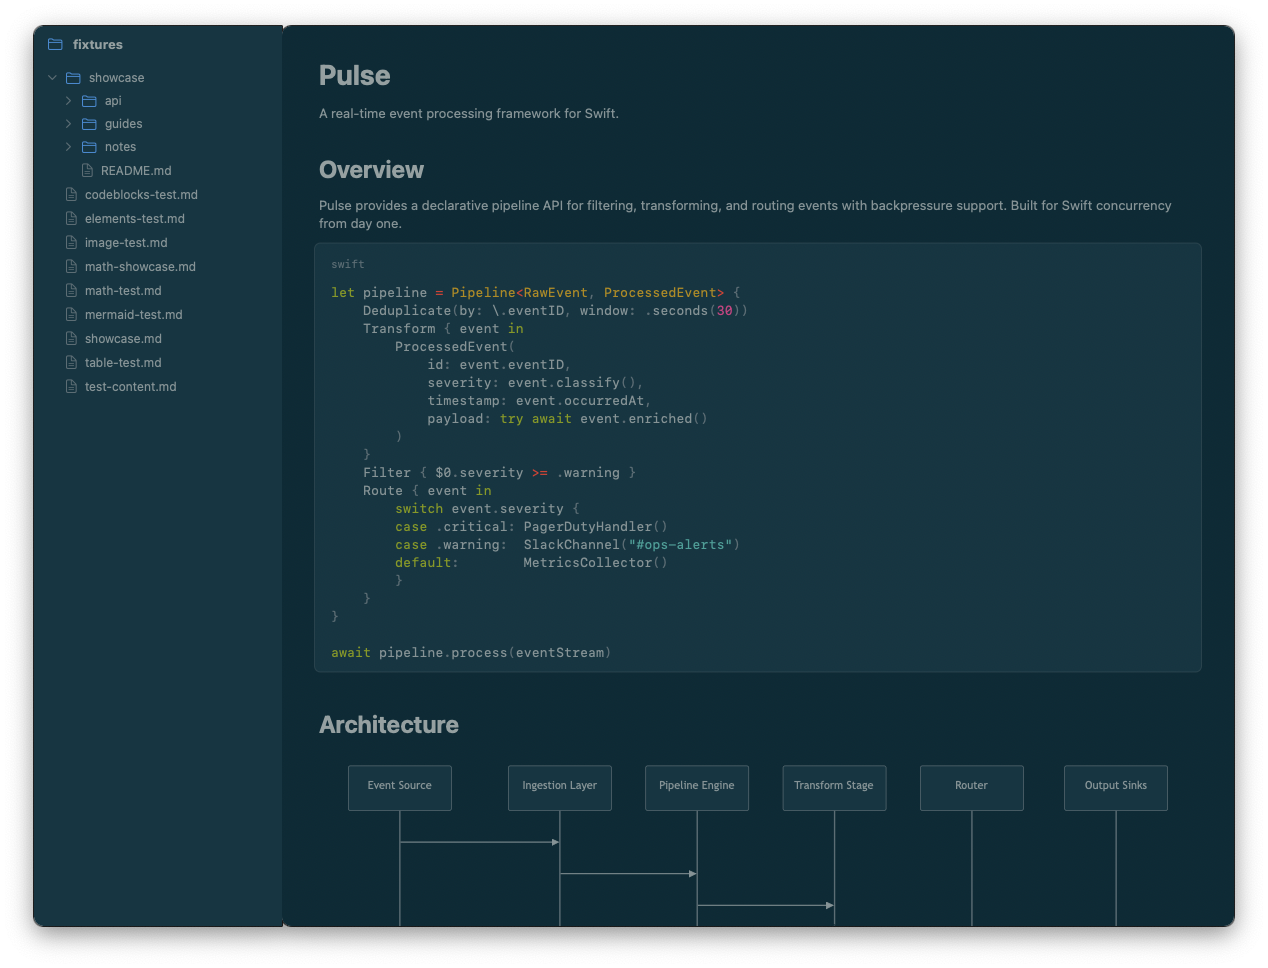
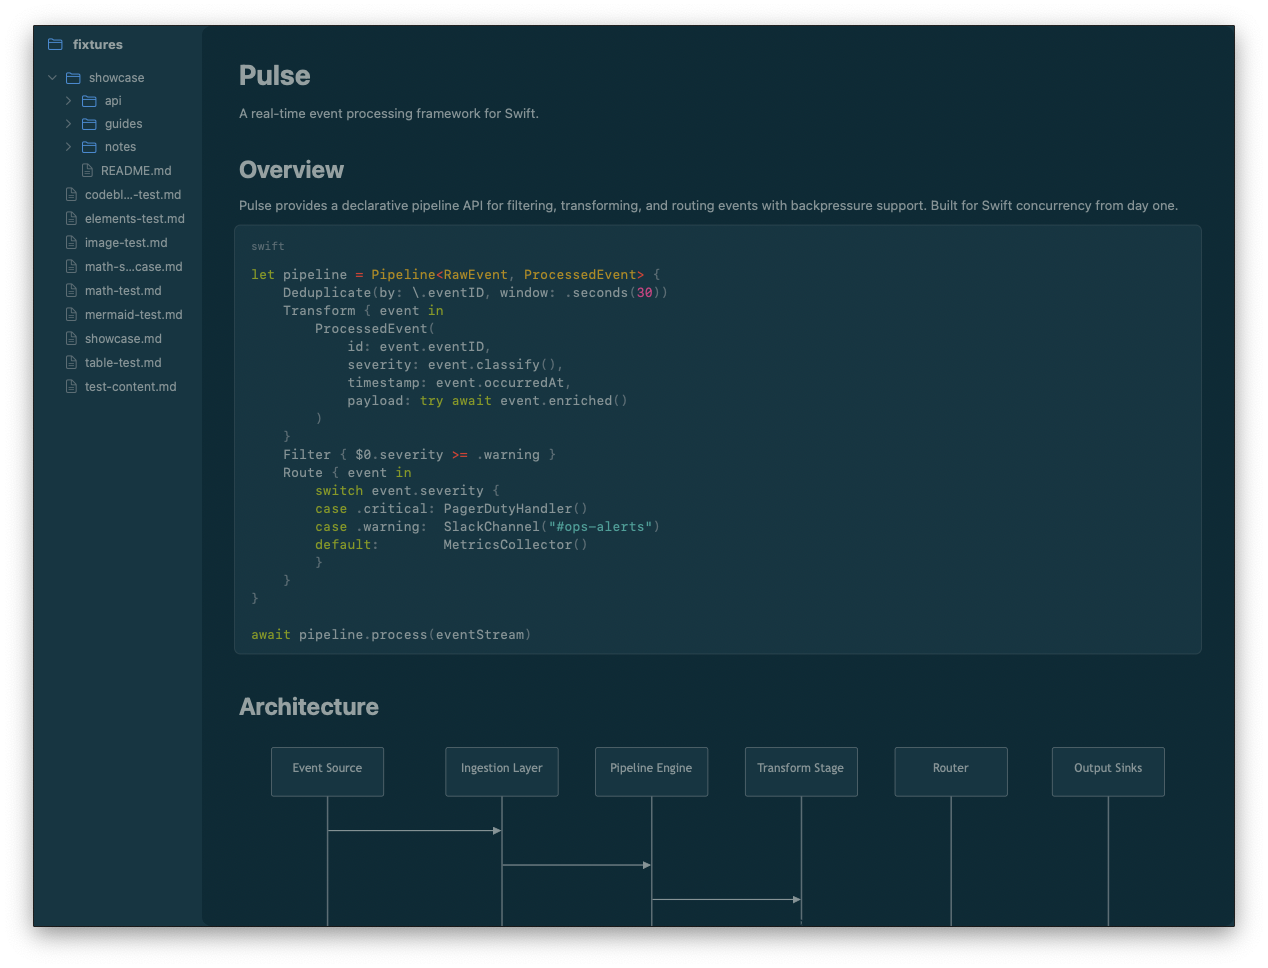
fix: retake screenshots with narrower sidebar, no-sidebar math, fix CSS
- Narrow sidebar in hero screenshots for cleaner proportions
- Remove sidebar from math screenshots (content-only)
- Remove CSS border-radius/box-shadow from showcase-frame and
  theme-preview (screenshots now have baked-in rounded corners)
- Move decorative orb inward (36px from corner) to sit inside window

diff --git a/docs/style.css b/docs/style.css
@@ -181,18 +181,12 @@ section {
   position: relative;
   max-width: 960px;
   margin: 0 auto;
-  border-radius: 12px;
-  box-shadow:
-    0 4px 6px rgba(0, 0, 0, 0.3),
-    0 20px 60px rgba(0, 0, 0, 0.4),
-    0 0 80px rgba(42, 161, 152, 0.08);
 }
 
 .showcase-frame img {
   width: 100%;
   height: auto;
   display: block;
-  border-radius: 12px;
 }
 
 @keyframes orb-glow {
@@ -203,8 +197,8 @@ section {
 .showcase-frame::after {
   content: "";
   position: absolute;
-  bottom: 16px;
-  right: 16px;
+  bottom: 36px;
+  right: 36px;
   width: 20px;
   height: 20px;
   border-radius: 50%;
@@ -344,9 +338,7 @@ section {
 }
 
 .theme-preview {
-  border-radius: 10px;
   overflow: hidden;
-  box-shadow: 0 8px 30px rgba(0, 0, 0, 0.3);
 }
 
 .theme-preview img {
